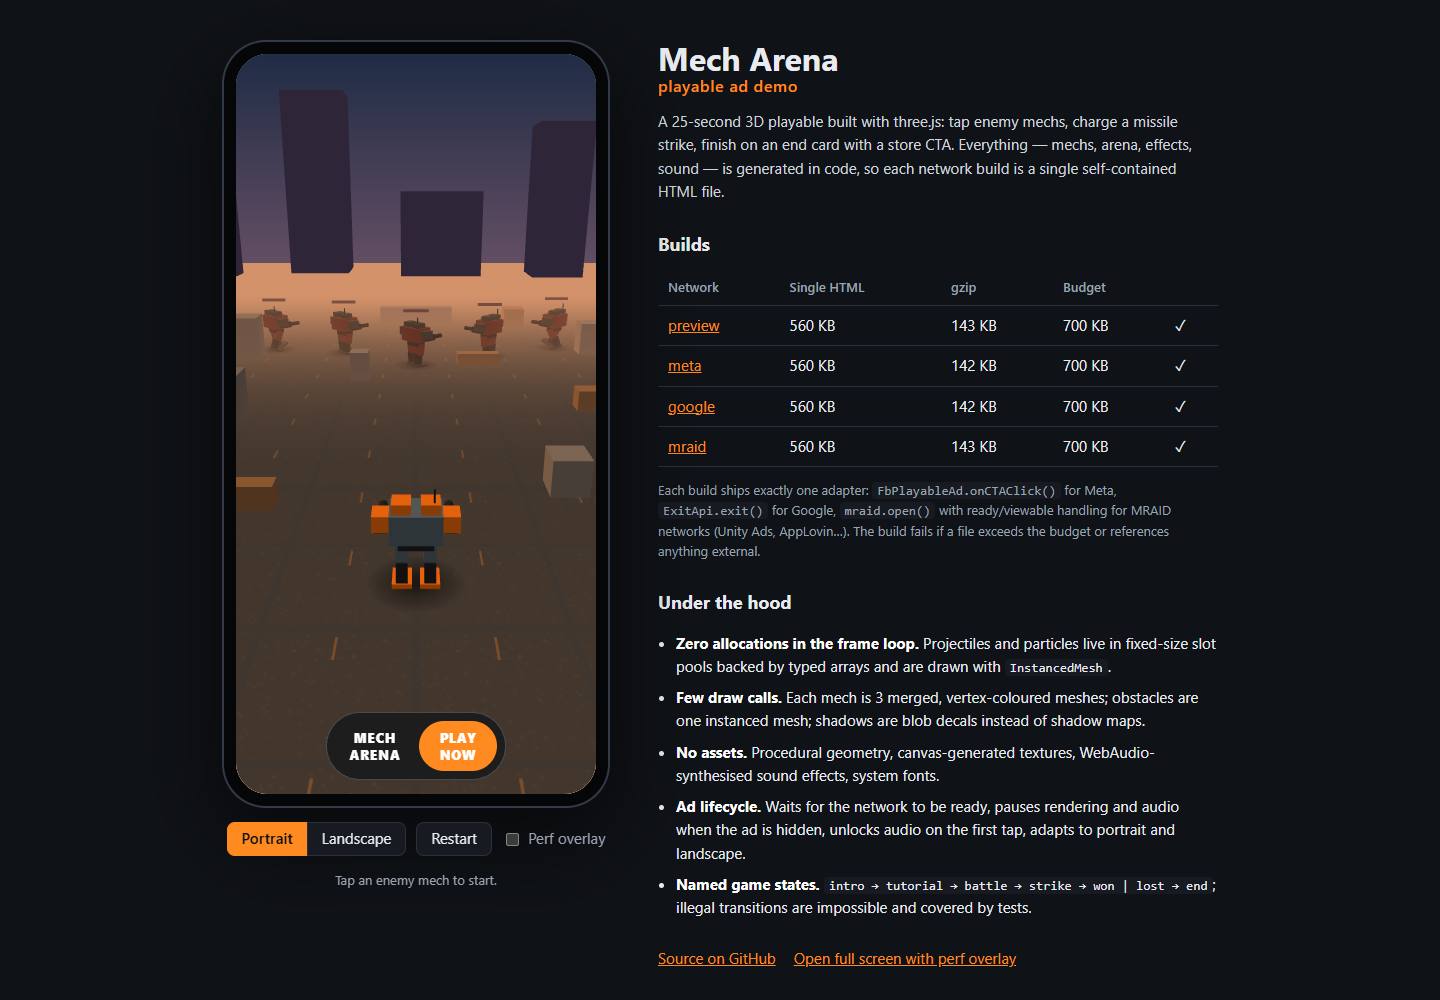
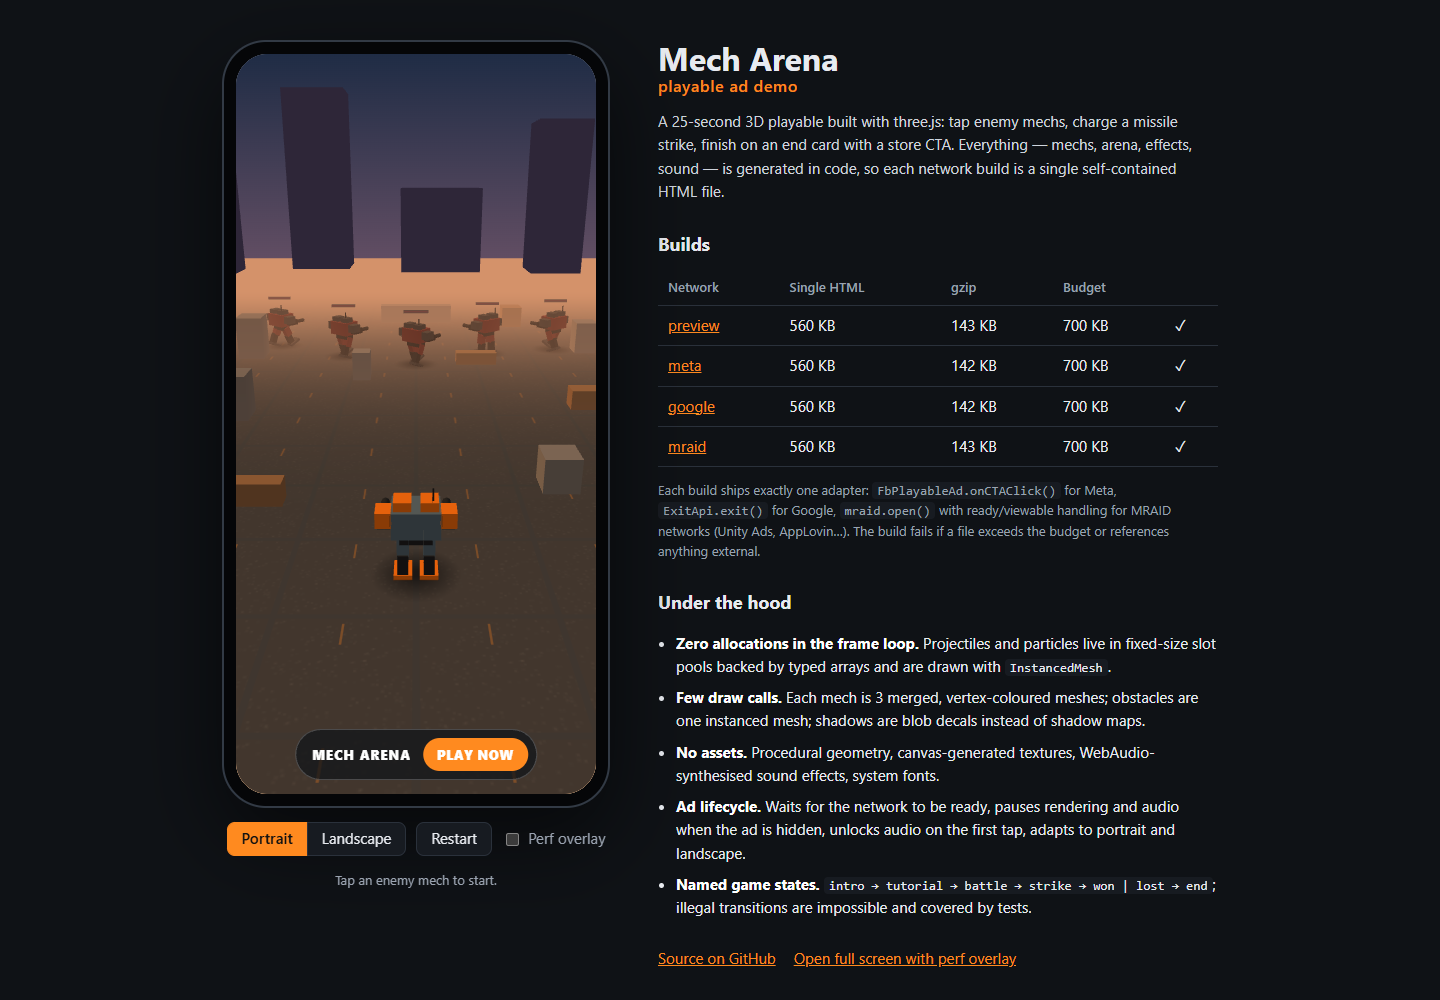
Showcase: длительность как в README, свежий скриншот

diff --git a/showcase/index.html b/showcase/index.html
@@ -26,7 +26,7 @@
 
     <section class="info">
       <h1>Mech Arena <span>playable ad demo</span></h1>
-      <p class="lead">A 25-second 3D playable built with three.js: tap enemy mechs, charge a missile strike, finish on an end card with a store CTA. Everything — mechs, arena, effects, sound — is generated in code, so each network build is a single self-contained HTML file.</p>
+      <p class="lead">A 20-second 3D playable built with three.js: tap enemy mechs, charge a missile strike, finish on an end card with a store CTA. Everything — mechs, arena, effects, sound — is generated in code, so each network build is a single self-contained HTML file.</p>
 
       <h2>Builds</h2>
       <table>
